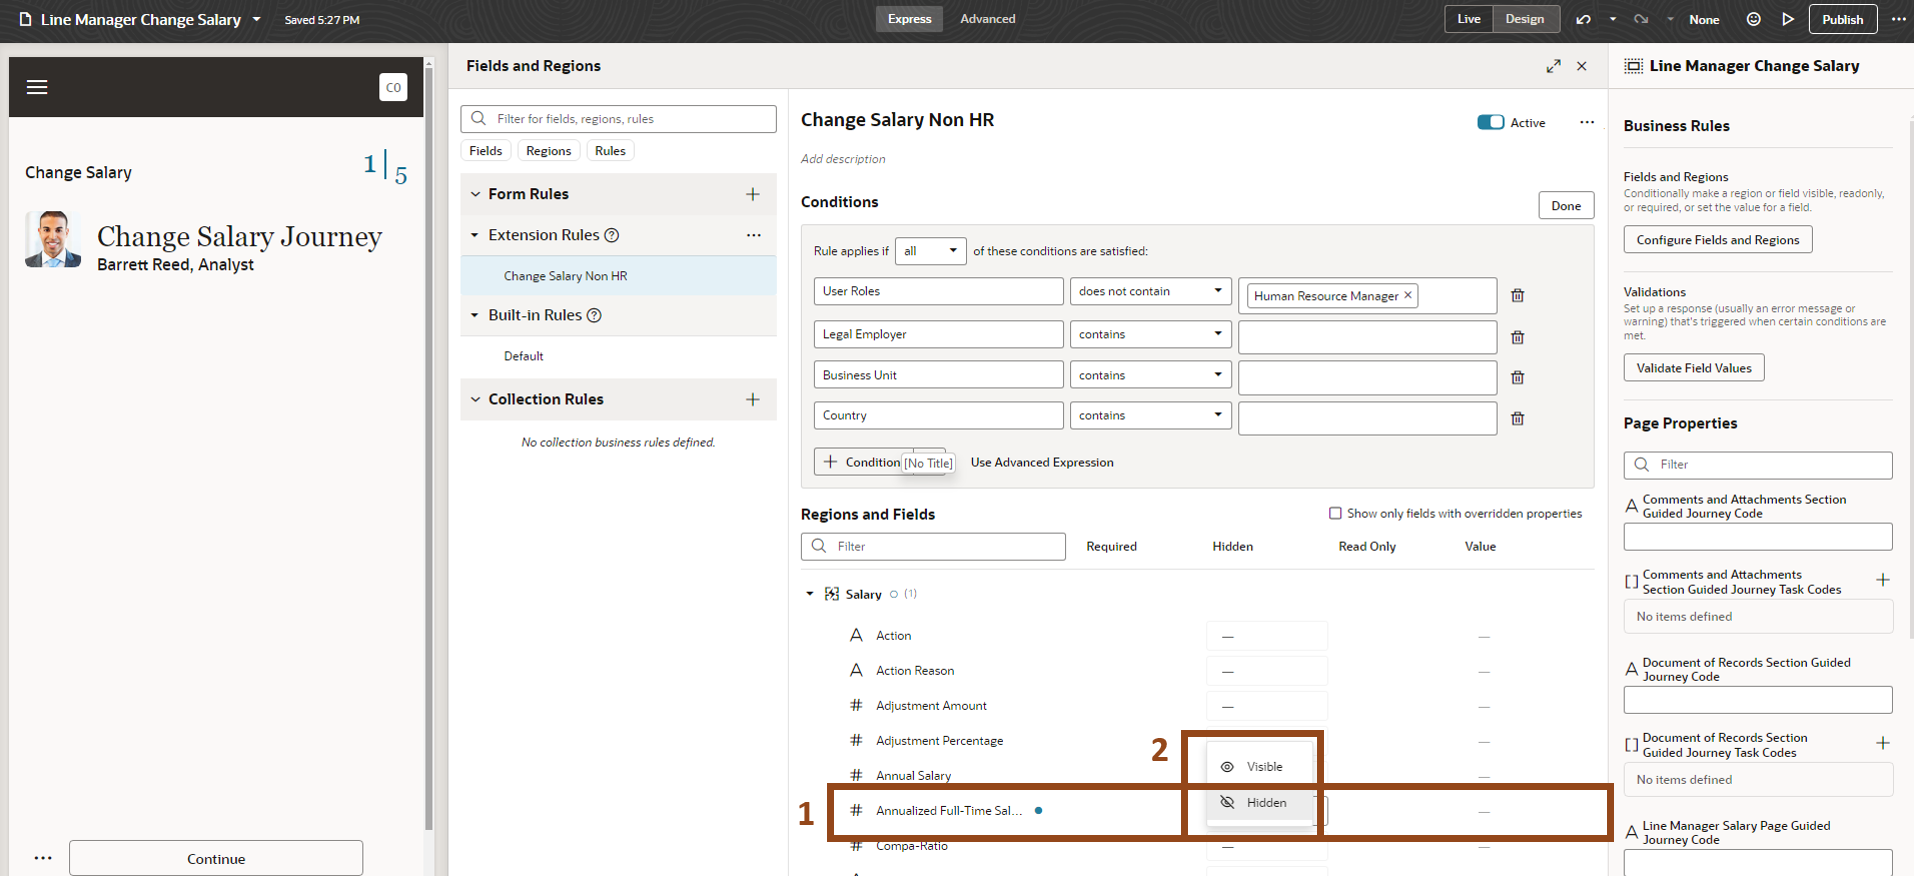
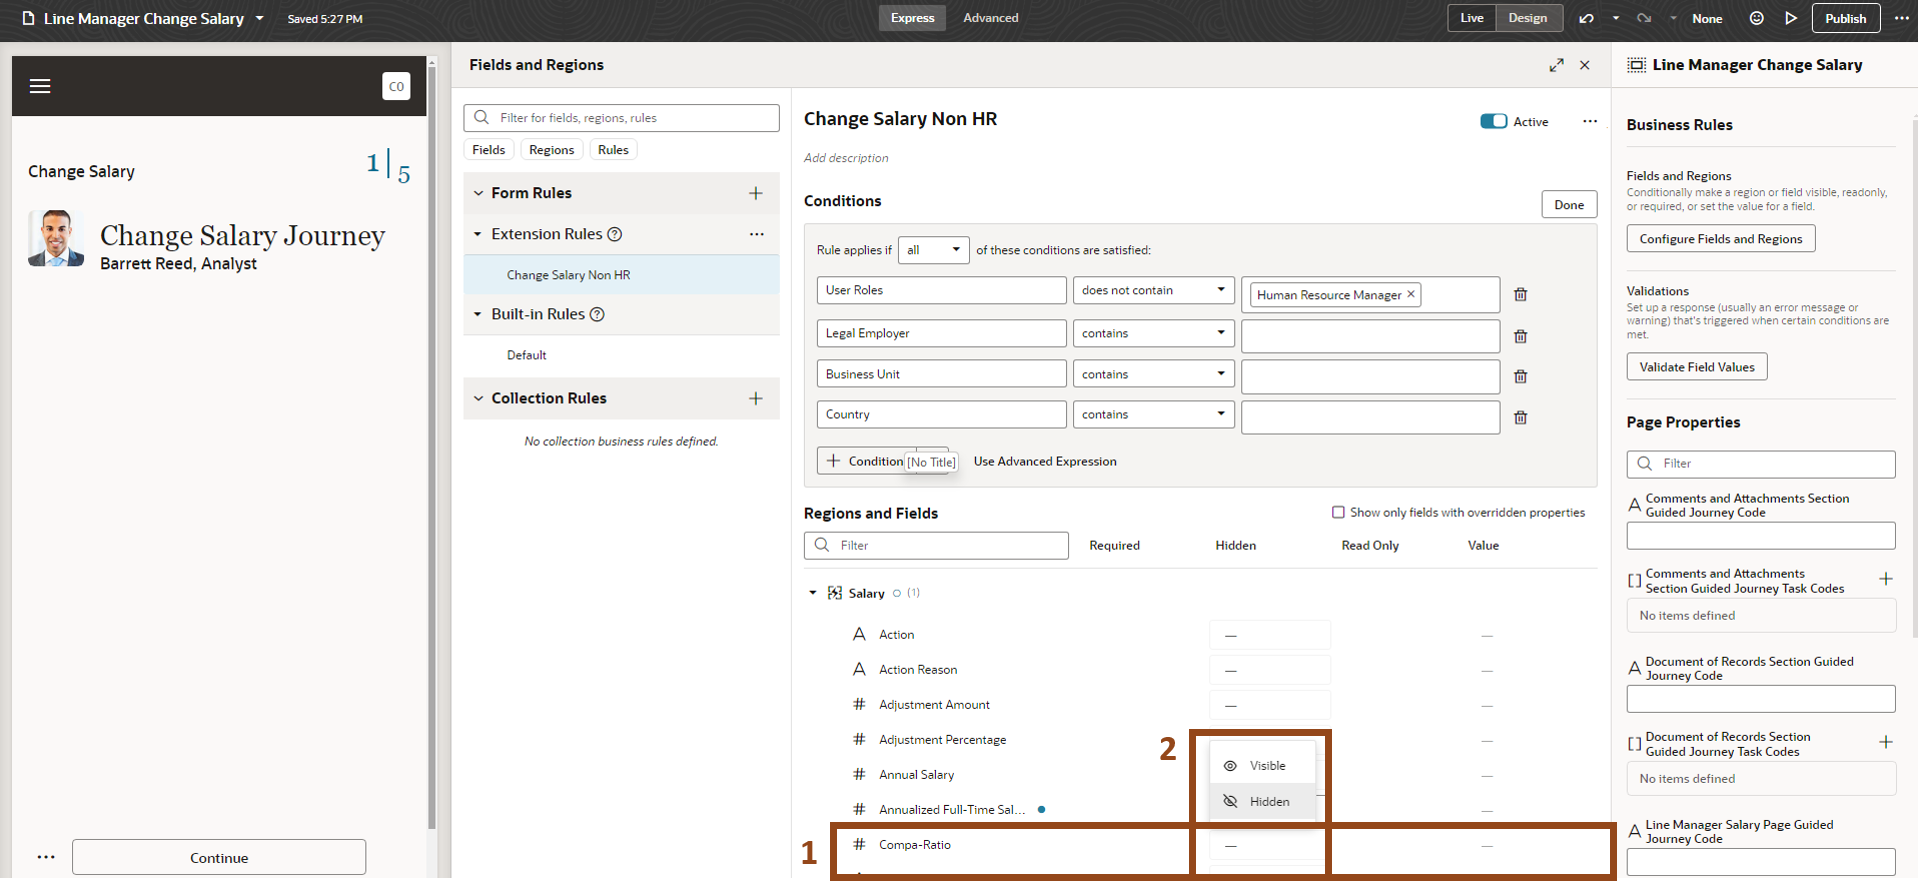
changes

diff --git a/apps-cloud-adventure-cio/02-configure/configure.md b/apps-cloud-adventure-cio/02-configure/configure.md
@@ -38,30 +38,27 @@ In this activity, you will use Redwood to incorporate rules and define content s
 
     ![My Team Page](images/image002.png)
 
-    > Click on the **X Icon** ![X](images/Icon01_X.png) to remove the Direct Reports Filter because your user does not have any direct reports.  This action allows us to see other people.
+    > Click on the ![X](images/Icon01_X.png) **Icon** to remove the Direct Reports Filter because your user does not have any direct reports.  This action allows you to see other people.
 
     ![My Team Page](images/image003.png)
 
 
 2. Now you will enter the Change Salary Form so we can make the required changes using Visual Builder Studio.  Now you will select a person so you can enter the Change Salary form.
 
-    > (1) Search for **Barrett Reed** in the search box. (add 1 and 2) <br>
+    > (1) Search for **Barrett Reed** in the search box. <br>
 
     > (2) Select **Barrett Reed** in the drop down (add new picture). <br>
 
 
     ![Change Salary Page](images/image004.png)
 
+3.  You have entered the Change Salary Form.  Now you will quickly review the current configuration of the Change Salary Form.
 
-3. You have entered the Change Salary Form.  Now you will quickly review the current configuration of the Change Salary Form.
+    > Click **Continue**.
 
-   > Click Continue
+   ![Change Salary Page](images/image005.png)
 
-    ![Change Salary Page 1st page](images/image005.png)
-
-    You need to enter the required information before you can move to the next screen.
-
-    > (1) Enter a **duture date** for **When does the salary will start.** <br>
+    > (1) Enter a **future date** for **When does the salary will start.** <br>
 
     > (2) Select **Change Salary** for **What is the action name.** <br>
 
@@ -69,7 +66,9 @@ In this activity, you will use Redwood to incorporate rules and define content s
 
     > (4) Click **Continue** once complete.
 
-    ![Change Salary Page 2nd page](images/image006.png)
+    ![Change Salary Page](images/image006.png)
+
+
 
 
 4. You will now create new rule that hides Annualized Full-Time Salary because it is repetitive.  You will also hide Compa-Raito since this is mainly used by HR.  You also want to show the action reason in this sction of the Change Salary Form.
@@ -78,145 +77,161 @@ In this activity, you will use Redwood to incorporate rules and define content s
 
 5. Now you will enter the Visual Builder Studio.
 
-    > (1) Click on **The CO Image** ![CO Image](images/Icon02_CO.png).  <br>
+    > (1) Click on **The** ![CO Image](images/Icon02_CO.png) **Image** in the top right corner of the screen.  <br>
 
     > (2) Then select **Edit Page in Visual Builder Studio**.
 
     ![Change Salary Page 2nd page](images/image008.png)
 
+    The following image appears as Visual Builder Studio is loading.
 
-6. A project has already been created for this exercise (GET RID OF STEP 5)
-
-    > (1) Click on the **Create Change Salary for Non-HR** project.  <br>
-
-    > (2) Then click **Select**.
-
-    ![Select Project](images/image007.png)
+    ![Select Project](images/image009.png)
 
 
-7.  Welcome to Oracle Visual Builder Studio (VB Studio), a robust application development platform that helps your team effectively plan and manage your work throughout all stages of the app dev lifecycle: design, build, test, and deploy.
+6.  Welcome to Oracle Visual Builder Studio (VB Studio), a robust application development platform that helps your team effectively plan and manage your work throughout all stages of the app dev lifecycle: design, build, test, and deploy.
 
-    Now we will use VB Studio to make the required changes.
+    Now we will use VB Studio to make the required changes to the Change Salary Form.
 
     > Click on **Configure Fields and Regions**.
 
-    ![VB Studio](images/image008.png)
+    ![VB Studio](images/image010.png)
 
 
-8. First we will create a new form rule for change salary ENCASE BOX FOR ALL RULES
+7. First we will create a new form rule for change salary.
 
-    > (1) Click on the **+ icon** to add a new form rule    <br>
+    > Click on the ![+ Icon](images/Icon05_plus.png) **Icon** to add a new form rule.
 
-    > (2) Enter **Change Salary Non-HR** in label
+    ![Fields and Regions](images/image011.png)
 
-    ![Fields and Regions](images/image009.png)
+    > (1) Enter **Change Salary Non-HR** in label. <br>
+
+    > (2) Click on **Create**.
+
+    ![Fields and Regions](images/image012.png)
 
 
-9.  Note that rules are based on a hierarchy.  The rules on top supersede the rules below .
+8.  Note that rules are based on a hierarchy.  The rules on top supersede the rules below .
 
     Now we will add the conditions that applies this rule to all non-HR personnel
 
 
     > Click on the **Edit button.**
 
-    ![Fields and Regions](images/image010.png)
+    ![Fields and Regions](images/image013.png)
+    
+    > (1) Click on **contains** in the User Roles Row. <br>
 
+    > (2) Select **does not contain** from the drop down options.  
 
+    ![Fields and Regions](images/image014.png)
 
-    > (1) In conditions, change the box to the right of User Roles from **contains** to **does not contain.**     <br>
+    > Then enter the **Human Resource Manager** role in the right most box.
 
-    > (2) Then enter the **Human Resource Manager** role in the right most box.
+    ![Fields and Regions](images/image015.png)
 
-    This configuration routes the current configuration to all people who are not assigned to the Human Resource Manager Role
-
-    ![Fields and Regions](images/image011.png)
+     **Note:** This configuration routes the this version of the Change Salary Form to all people who are not assigned to the Human Resource Manager Role
 
 
 10.  Now you want to add and hide fields.
 
-    > Click on the **Expnd Icon** to the left of Salary to expand the salary section.
+    > Click on the **Drop Down** ![Drop Down Icon](images/Icon03_dropdown.png) Icon to the left of Salary to expand the salary section.
 
-    ![Fields and Regions, Conditions](images/image012.png)
-
-
-
-11.  First you want to show the Action Reason from the First Screen in the 2nd screen with all the detailed Salary Data
-
-    > (1) Click on the **Hidden** Box to the right of **Action Reason**.       <br>
-
-    > (2) Then select **Visible**.
-
-    ![Fields and Regions](images/image013.png)
+    ![Fields and Regions, Conditions](images/image016.png)
 
 
 
-12. Now you will hide Annualized Full-Time Salary and Compa-Ratio
+11.  First you want to the configure the form to hide Annualized Full-Time Salary Field.
 
-    > (1) Click on the **Box** next to Annualized Full-Time Salary <br>
+    > (1) Click in the Box in the **Hidden Column** for **Annualized Full-Time Salary Field** row.       <br>
 
-    > (2) Select **Hidden.**  <br>
+    > (2) Then select **Hidden** from the options that appear.
 
-    > (3) Do the same actions for **Compa-Ratio.**
-
-    ![Fields and Regions](images/image014.png)
+    ![Fields and Regions, Conditions](images/image017.png)
 
 
+12. Now you want to the configure the form to hide Compa-Ratio.
 
-13. Now you will add a validation step for the Adjustment Percentage.  We do not want users to enter in a Salary Percentage Greater than 15%
+    > (1) Click in the Box in the **Hidden Column** for **Compa-Ratio** row.       <br>
+
+    > (2) Then select **Hidden** from the options that appear.
+
+    ![Fields and Regions, Conditions](images/image018.png)
+
+12. Now you will configure the form to show action reason
+
+    > (1) Click in the Box in the **Hidden Column** for **Action Reason** row.       <br>
+
+    > (2) Then select **Visable** from the options that appear.
+
+    ![Fields and Regions, Conditions](images/image019.png)
+
+
+
+13. Please verify that Action Reason is **Visable**, and Annualized Full-Time Salary Field and Compa-Ratio are **Hidden**.
+
+    Now you will add a validation step for the Adjustment Percentage.  You do not want users to enter in a Salary Percentage Greater than 15%
 
     > Click on **Validate Field Values**
 
-    ![Fields and Regions](images/image015.png)
+    ![Fields and Regions](images/image020.png)
 
     > Click on **+ Validation**
 
-    ![Validation](images/image016.png)
+    ![Validation](images/image021.png)
 
-    > (1) Enter **Adjustment Percentage** in Label to name the validation.    <br>
+    > (1) Enter **Adjustment Percentage** in **Label** to name the validation.    <br>
 
     > (2) Then Click **Create**.
 
-    ![Validation](images/image017.png)
+    ![Validation](images/image022.png)
 
 
 14.  Now you will set the conditions for this rule so that the form will not accept any adjustment percentage greater than 15%.
 
-    > Click on the **Edit Icon.**
+    > Click on the **Edit**
 
-    ![Create Validation](images/image018.png)
+    ![Create Validation](images/image023.png)
 
     > Click on **+ Condition**.
 
-    ![Create Validation](images/image019.png)
+    ![Create Validation](images/image024.png)
 
     > (1) Start Typing **Adjustment Percentage.**     <br>
 
-    > (2) Then select the first **Adjustment Percentage.**.
+    > (2) Then select the first **Adjustment Percentage.** under **Salary Details**.
 
-    ![Create Validation](images/image020.png)
+    ![Create Validation](images/image025.png)
 
-    > (1) Click on the **middle box.**       <br>
+    > (1) In the new Adjustment Percentage row you just created, click the **middle box** that says **Equals**.       <br>
 
     > (2) Then select  **greater than.**.
 
-    ![Create Validation](images/image021.png)
+    ![Create Validation](images/image026.png)
+
+    > Enter **15** in the right most box in the Adjustment Percentage row.
+
+    ![Create Validation](images/image027.png)
+
+    The form will not allow any user to enter an adjustment percentage greater than 15%. 
 
 
 15.  Now you will configure the error message users will see if they enter in an Adjustment Percentage greater than 15%.
 
-    > (1) Enter **Adjustment Percentage** in Summary.    <br>
+    > (1) Under **Messages**, Enter **Adjustment Percentage is too high** in **Summary**.    <br>
 
-    > (2) Then enter enter **The Adjustment Percentage cannot exceed 15%.**
+    > (2) Then enter enter **The Adjustment Percentage nust be lower than 15%** in **Detail**.
 
-    ![Create Validation](images/image022.png)
+    ![Create Validation](images/image028.png)
 
-    > (1) Click on the **Down Arrow.**      <br>
+    > Click on **Warning** under **Severity**.
 
-    > (2) Then select **Error.**
+    ![Create Validation](images/image029.png)
+
+    > (2) Then select **Error** from the drop down options that appear.
 
     The error configuration will not allow any user who entered incorrect data to submit the change without fixing the error
 
-    ![Create Validation](images/image023.png)
+    ![Create Validation](images/image030.png)
     
 
 
@@ -228,21 +243,26 @@ In this activity, you will use Redwood to incorporate rules and define content s
 
     > (2) A new window will pop up.
 
-    ![Create Validation](images/image024.png)
+    ![Create Validation](images/image031.png)
 
 17.  You have reentered the Change Salary Form.  Let’s review the changes.
 
+    > Click **Continue**.
+
+    ![Change Salary 1](images/image032.png)
+
     You need to enter the required information before you can move to the next screen.
 
-    > (1) Pick a **future date** for when the salary will start. <br>
+    > (1) Enter a **future date** for **When does the salary will start.** <br>
 
-    > (2) Select **Change Salary** under Action Name. <br>
+    > (2) Select **Change Salary** for **What is the action name.** <br>
 
-    > (3) Select **Career Progression** for why you are changing the salary. <br>
+    > (3) Select **Career Progression** for **why you are changing the salary for Barrett Reed?** <br>
 
     > (4) Click **Continue** once complete.
 
-    ![Change Salary Screen 1](images/image025.png)
+    ![Change Salary Page 2nd page](images/image033.png)
+
 
 18.  Note that Annualized Full-Time Salary and Compa-Ratio are no longer visible while Action Reason is now Visible.
 
@@ -250,17 +270,23 @@ In this activity, you will use Redwood to incorporate rules and define content s
 
     > Enter an Adjustment salary that is greater than 15%.
 
-    ![Change Salary Screen 1](images/image026.png)
+    ![Change Salary Screen 2](images/image034.png)
 
 19.  The system gives us a warning that the increase in salary is outside the worker’s salary range.  You will ignore this warning.
 
     > Click **Continue.**
 
-    ![Change Salary Screen 2](images/image027.png)
+    ![Change Salary Screen 2](images/image035.png)
 
 20.  The system will not allow the user to continue because the Adjustment Salary percentage exceeds 15%
 
-    ![Change Salary Screen 2 error message](images/image028.png)
+    ![Change Salary Screen 2 error message](images/image036.png)
+
+    > Click on the **Home** ![Home Icon](images/Icon07_home.png) Icon.
+
+    ![Change Salary Screen 2](images/image037.png)
+
+
 
 
 21. Adventure awaits, click on the image, show what you know and rise to the top of the leader board!!!
